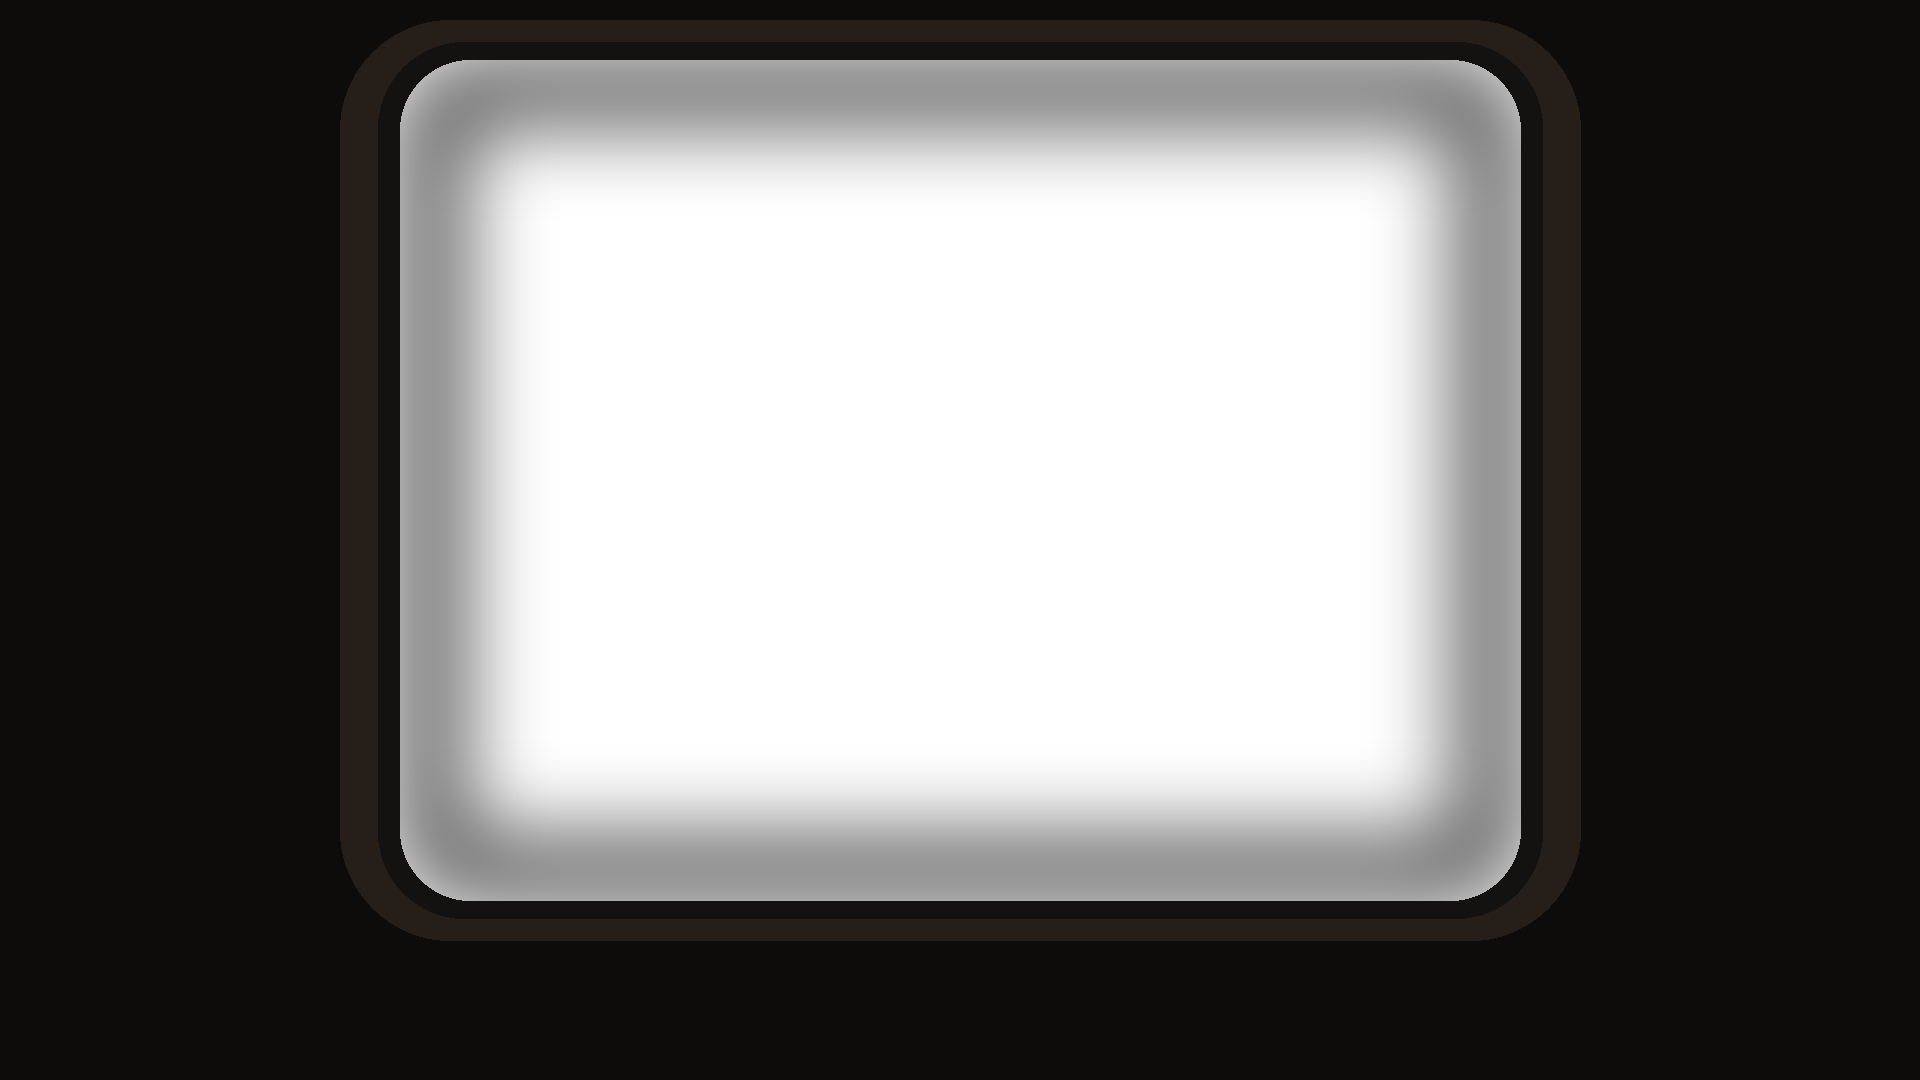
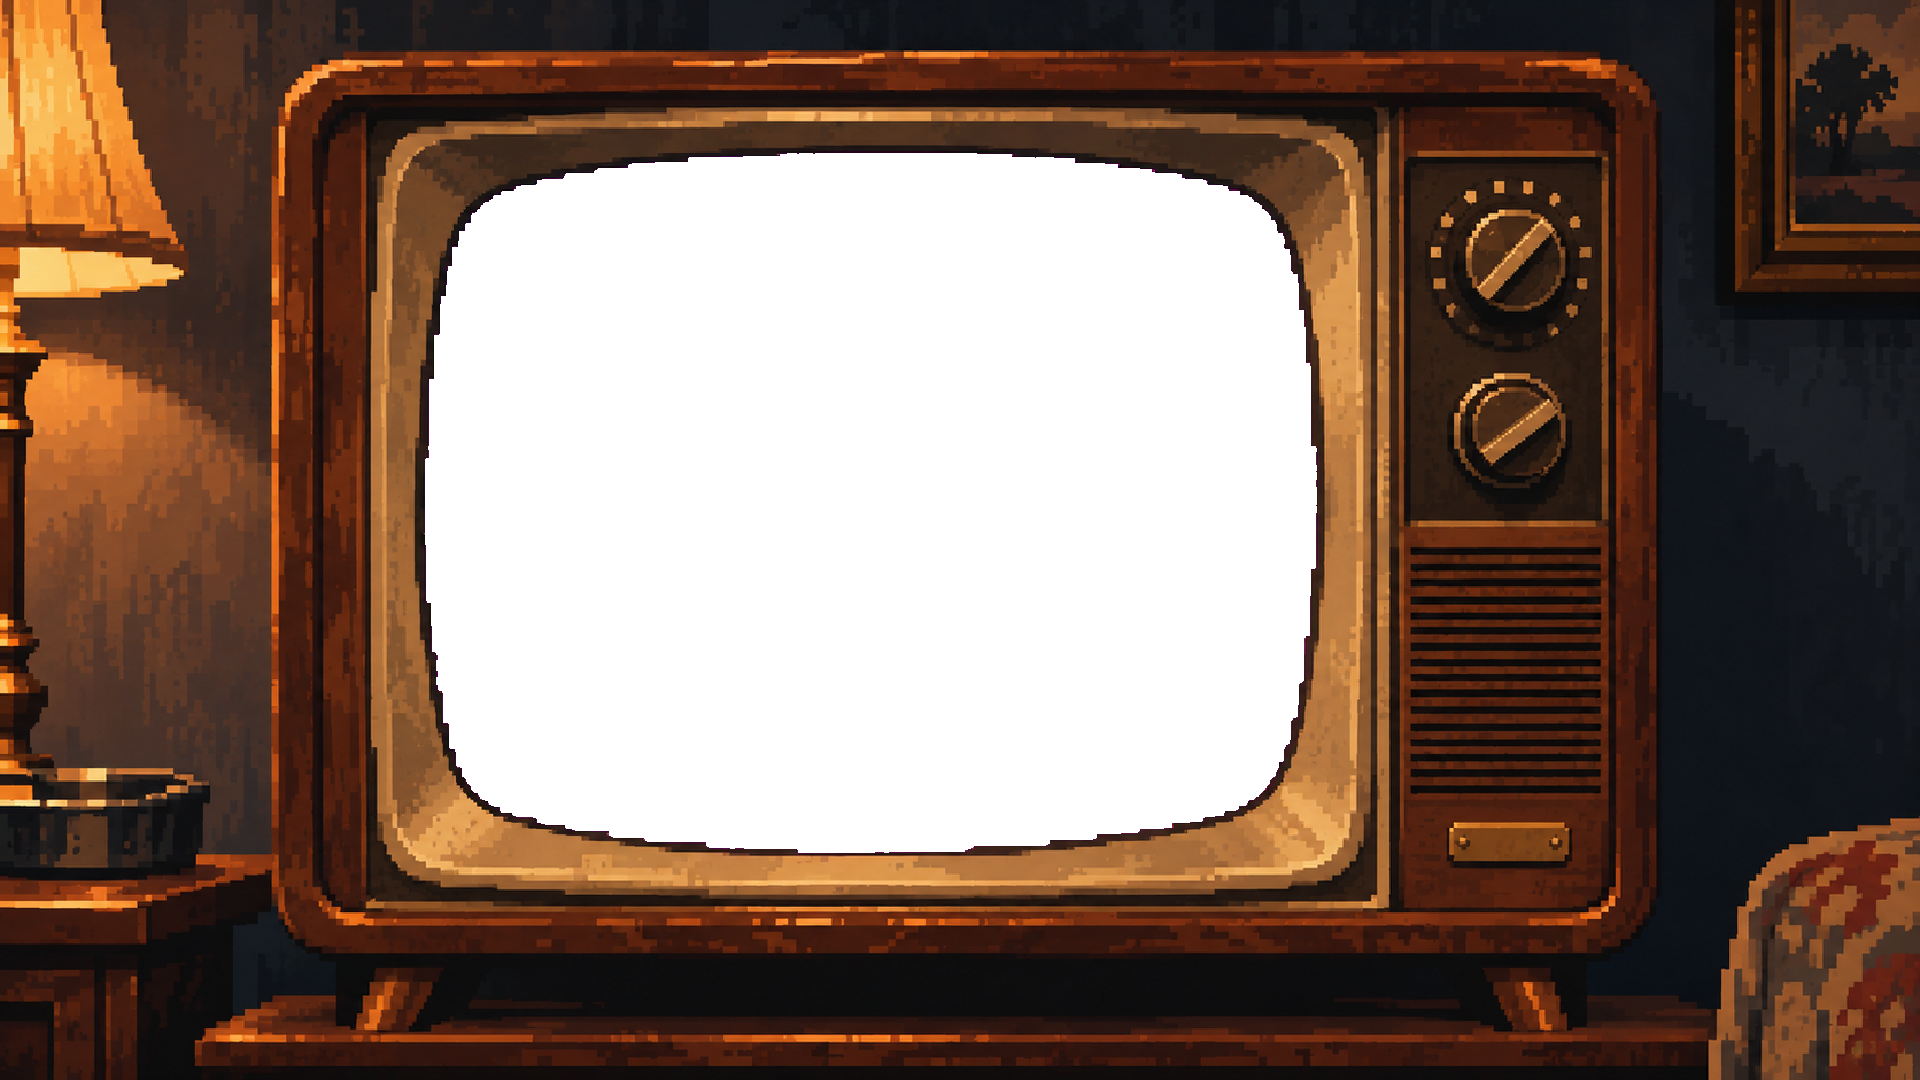
Noticiero: imágenes de Julián y televisor nuevo
Ocho imágenes cargadas (sin el borde de tubo que traían), televisor con
pantalla transparente, NR_SCREEN ajustado, zócalo y narración legibles.

Claude-Session: https://claude.ai/code/session_01JvCHRr9eXwuxET2Q9A5xbT

diff --git a/CAMBIOS_BETA.md b/CAMBIOS_BETA.md
@@ -193,3 +193,12 @@ Después correr **Lint** (launcher de Ren'Py → Check Script) y jugar las rutas
 - Créditos: "Music: Thiago Chalon and Gastón Posse".
 - Los diez finales tienen cutscene (`cutscene` en `endings.json`), de 2 a 4 cuadros con texto. Las imágenes van en `images/cutscenes/end_eXX_N.png`. Mientras falten, cada cuadro se ve en negro con su texto.
 - Orden en `label ENDING`: noticiero final (la versión pública), después la cutscene (lo que pasó de verdad), después el expediente. E01 no tiene noticiero.
+
+---
+
+# Noticiero: imágenes y televisor
+
+- `images/newsreel/`: nr_anchor, nr_speech, nr_strike, nr_landing, nr_quarantine, nr_u2_wreck, nr_turkey, nr_radio_moscow. A las que traían el borde de tubo dibujado se les recortó, porque el televisor lo pone el juego.
+- `gui/newsreel/bezel.png` es ahora el televisor de Julián, con la pantalla transparente. `NR_SCREEN` quedó ajustado al hueco, y las scanlines se regeneraron para ese tamaño.
+- El zócalo va centrado con margen lateral (las esquinas de la pantalla son redondeadas). La narración va sobre una franja oscura.
+- Faltan nr_supermarket, nr_schoolkids, nr_pickets, nr_berlin, nr_crates y nr_castro. Mientras tanto se ven grises con el texto.
